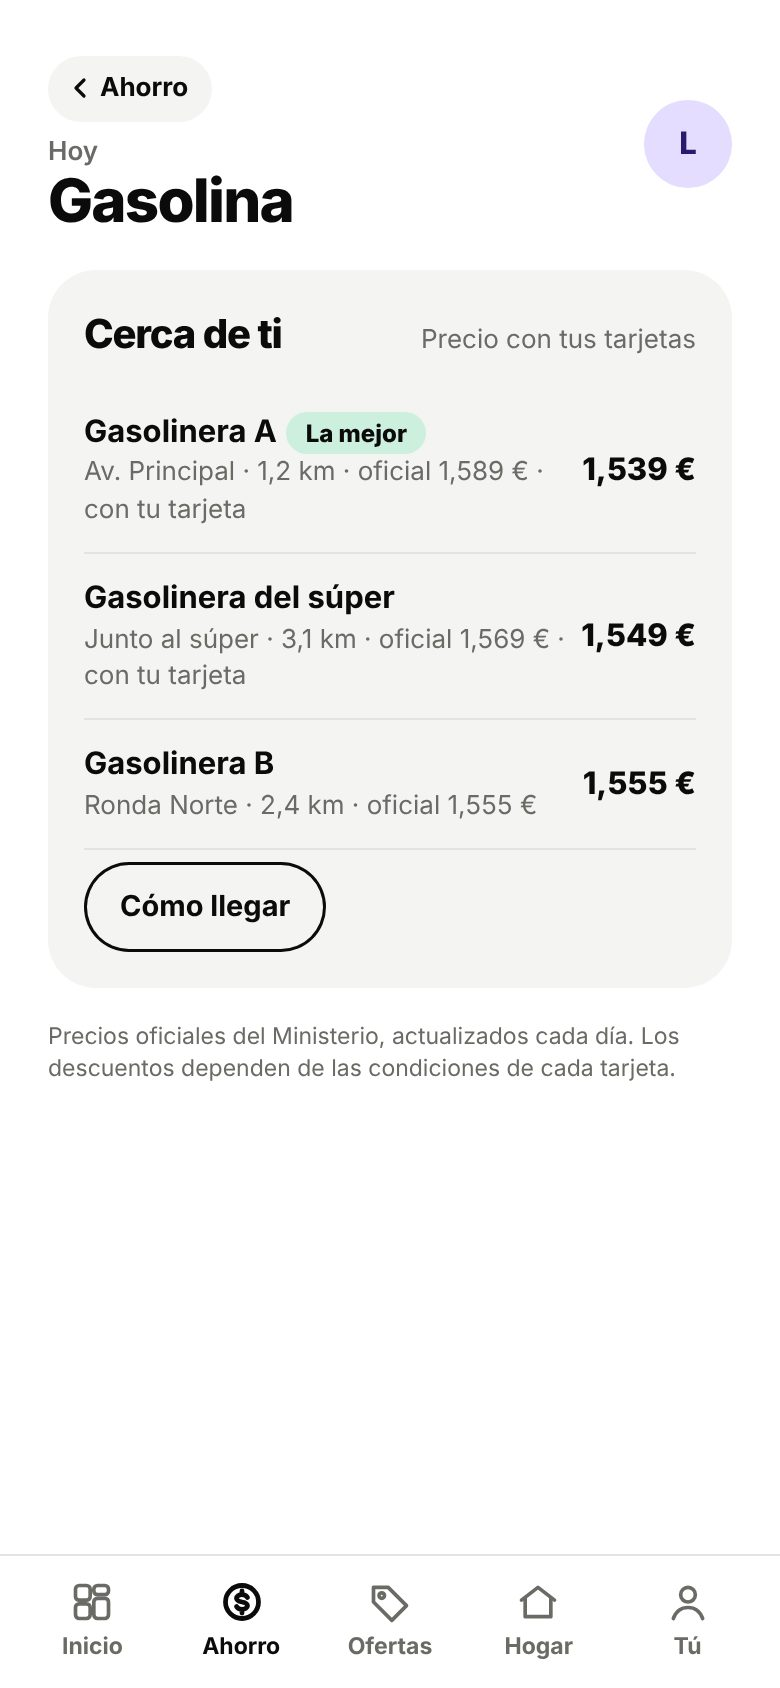
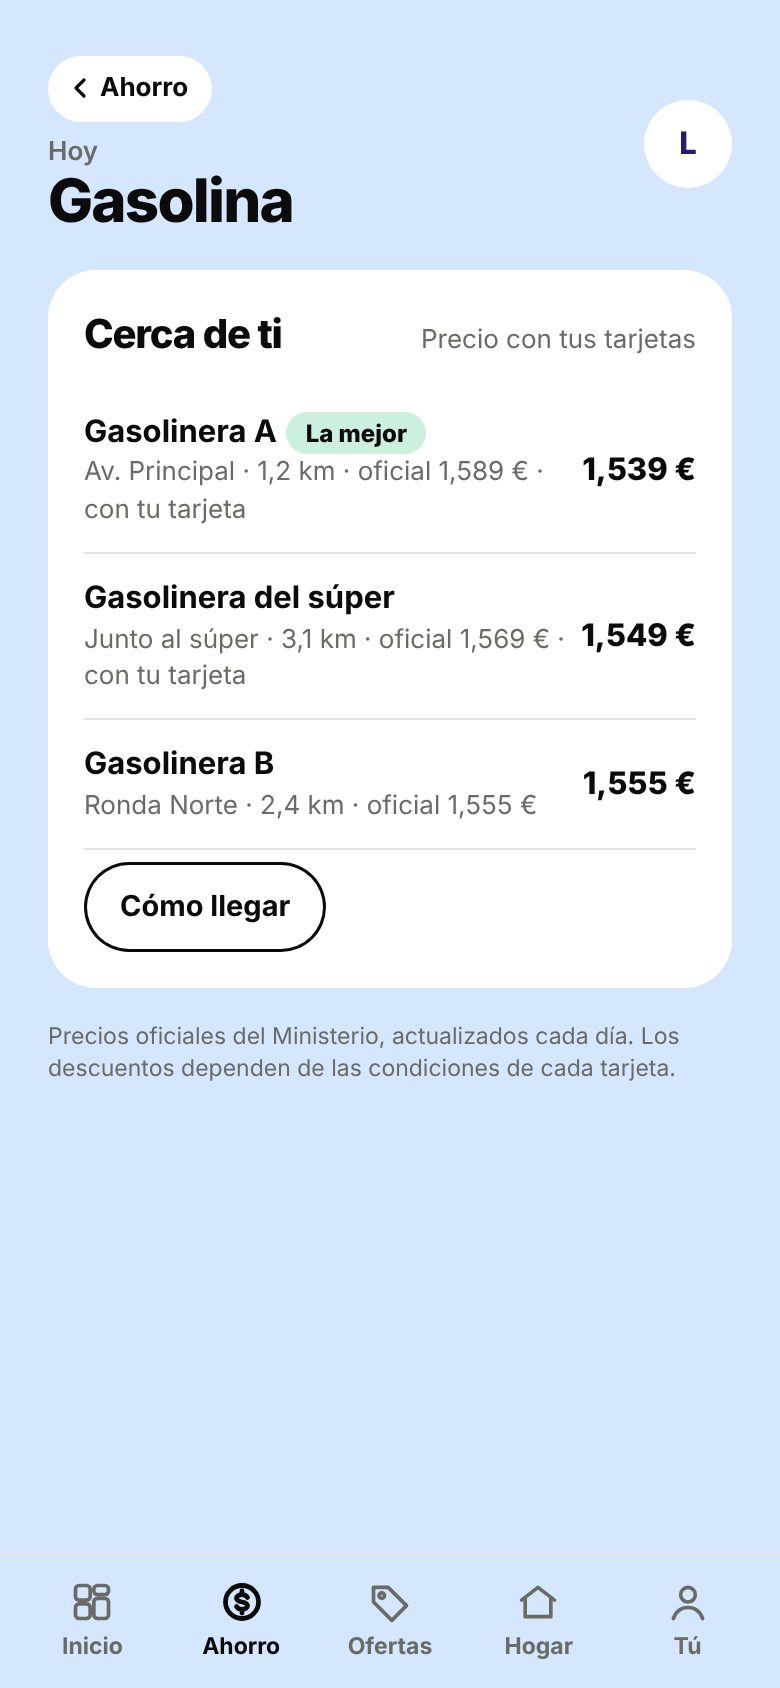
App con escenas de color como la web; capturas de la web actualizadas
Claude-Session: https://claude.ai/code/session_01F6sCRFry7y6VH7Km1yR5w5

diff --git a/app/index.html b/app/index.html
@@ -12,6 +12,15 @@
 <link rel="stylesheet" href="https://fonts.googleapis.com/css2?family=Plus+Jakarta+Sans:wght@400;500;600;700;800&display=swap">
 <style>
 [hidden]{display:none!important}
+/* Escenas de color como en la web y los anuncios: cada apartado tiene su fondo pastel y las tarjetas van en blanco */
+@media (prefers-color-scheme: light){
+body[data-sec]{--bg:var(--secbg);--surface:#FFFFFF;--sunk:#F4F2EE;transition:background .25s}
+body[data-sec="peach"]{--secbg:#FFD9C7}body[data-sec="butter"]{--secbg:#FFEFB5}body[data-sec="lav"]{--secbg:#E4DDFF}
+body[data-sec="mint"]{--secbg:#CDEFDD}body[data-sec="sky"]{--secbg:#D5E7FF}body[data-sec="cream"]{--secbg:#FFF4C9}
+body[data-sec="lav"] .tile.wide,body[data-sec="lav"] .hero{background:#FFFFFF!important}
+body[data-sec] .type{background:#F7F5F1}body[data-sec] .avatar{background:#FFFFFF}body[data-sec] .demo{background:rgba(255,255,255,.7)}
+}
+
 .fi{position:absolute;inset:0;width:100%;height:100%;object-fit:cover;border-radius:inherit;z-index:0}
 .tav,.avatar,.th,.ph,.of .img,.wt{position:relative;overflow:hidden}
 .of .img>span,.esc .ph>span,.wt>span{position:relative;z-index:1}
@@ -924,7 +933,8 @@ const TT={inicio:["Viwai · ahorro sin esfuerzo","Lo que ahorras, lo vives"],aho
  hogar:["Tu casa, sin olvidos","Hogar"],docs:["Te avisamos antes","Documentos y fechas"],pedidos:["En camino","Pedidos"],wallet:["Siempre a mano","Wallet"],mant:["Que no se te pase","Mantenimiento"],cal:["Toda la familia","Calendario"],menu:["Esta semana","Menú y compra"],tareas:["Entre todos","Tareas de casa"],armario:["Uno por persona","Armario"],talla:["Ofertas en su talla","Lo que le falta"],vender:["Segunda vida","Vender o pasar"],familia:["Casa compartida","Tu familia"],eventos:["Organízalo entre todos","Eventos"],dinero:["Módulo de pago","Mi dinero"],perfil:["Tu nivel y tu perfil","Tú"]};
 const PARENT={facturas:"ahorro",luz:"ahorro",gasolina:"ahorro",ayudas:"ahorro",reembolso:"ahorro",docs:"hogar",pedidos:"hogar",wallet:"hogar",mant:"hogar",cal:"hogar",menu:"hogar",tareas:"hogar",armario:"hogar",talla:"armario",vender:"talla",familia:"perfil",eventos:"hogar",dinero:"perfil"};
 const LBL={ahorro:"Ahorro",hogar:"Hogar",perfil:"Tú",armario:"Armario",talla:"Lo que le falta"};
-function go(v){const top=PARENT[v]||v;document.querySelectorAll("section.view").forEach(s=>s.hidden=s.id!=="v-"+v);document.querySelectorAll("#tabs button").forEach(b=>b.dataset.v===top?b.setAttribute("aria-current","page"):b.removeAttribute("aria-current"));
+const SEC={facturas:"peach",luz:"peach",ayudas:"butter",gasolina:"sky",reembolso:"lav",ahorro:"lav",dinero:"lav",ofertas:"cream",perfil:"lav",armario:"mint",talla:"mint",vender:"mint",familia:"mint",cal:"sky",tareas:"sky",eventos:"sky",hogar:"sky",menu:"cream",docs:"butter",pedidos:"butter",wallet:"butter",mant:"butter"};
+function go(v){const top=PARENT[v]||v;if(SEC[v])document.body.dataset.sec=SEC[v];else delete document.body.dataset.sec;document.querySelectorAll("section.view").forEach(s=>s.hidden=s.id!=="v-"+v);document.querySelectorAll("#tabs button").forEach(b=>b.dataset.v===top?b.setAttribute("aria-current","page"):b.removeAttribute("aria-current"));
  $("#back").hidden=!PARENT[v];if(PARENT[v]){$("#back").dataset.v=PARENT[v];$("#back-l").textContent=LBL[PARENT[v]]}
  $("#eyebrow").textContent=TT[v][0];$("#title").textContent=TT[v][1];window.scrollTo(0,0)}
 function resetBill(){$("#step-res").hidden=true;$("#step-load").hidden=true;$("#step-up").hidden=false}

diff --git a/app/sw.js b/app/sw.js
@@ -1,5 +1,5 @@
 // Service worker mínimo: guarda la app para abrirla sin conexión. Los datos siempre se piden a la red.
-const CACHE = "viwai-v12";
+const CACHE = "viwai-v13";
 const ARCHIVOS = ["./", "index.html", "manifest.webmanifest", "icons/icono.svg"];
 self.addEventListener("install", (e) => e.waitUntil(caches.open(CACHE).then((c) => c.addAll(ARCHIVOS))));
 self.addEventListener("activate", (e) => e.waitUntil(caches.keys().then((ks) => Promise.all(ks.filter((k) => k !== CACHE).map((k) => caches.delete(k))))));

diff --git a/docs/DECISIONES.md b/docs/DECISIONES.md
@@ -25,3 +25,4 @@ Las decide Alba salvo las marcadas como técnicas. La más reciente prevalece.
 | 2026-11-06 | **Funciones próximas:** avisos de bajada de precio (con los catálogos de afiliación) y códigos de descuento exclusivos negociados con las redes cuando haya volumen. | Alba |
 | 2026-11-06 | **Seguros en la app:** al subir una póliza solo se guarda la fecha y se avisa 30 días antes de la renovación; sin opciones, precios ni correduría (aplica la decisión de solo recordar fechas). | Alba |
 | 2026-11-06 | **Mensaje central:** Viwai ayuda a ahorrar para que el dinero vaya a disfrutar la vida. Se explica también que organizar ahorra (menú, gasolina, armario, mantenimiento, papeles). La historia del nombre va en la web en «Por qué Viwai»: en hawaiano wai es agua y waiwai abundancia; Viwai une vida y abundancia en una ola que te devuelve lo que ahorras para que lo vivas; «también suena a vida guay». | Alba |
+| 2026-11-06 | **App con el estilo de la web:** cada apartado tiene su fondo pastel (facturas melocotón, ayudas y papeles amarillo, armario y familia menta, casa y calendario azul, reembolso lila, menú y ofertas crema) y las tarjetas en blanco. Fotos: solo gratuitas de Pexels o Unsplash (no iStock patrocinado ni Unsplash+). | Alba |
